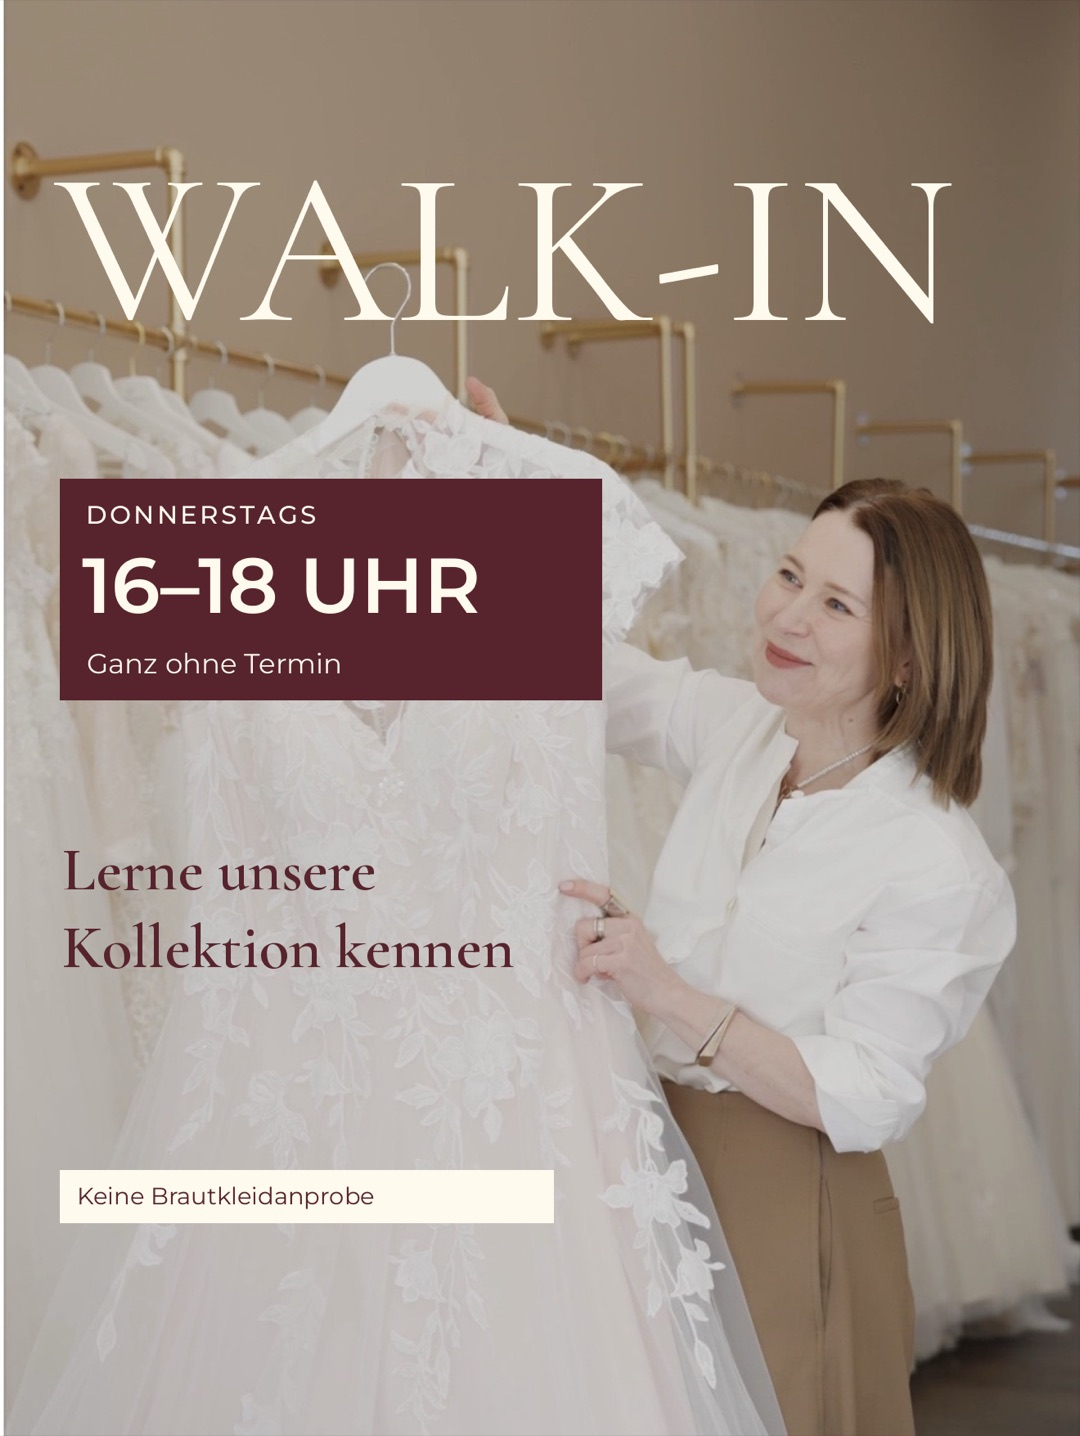
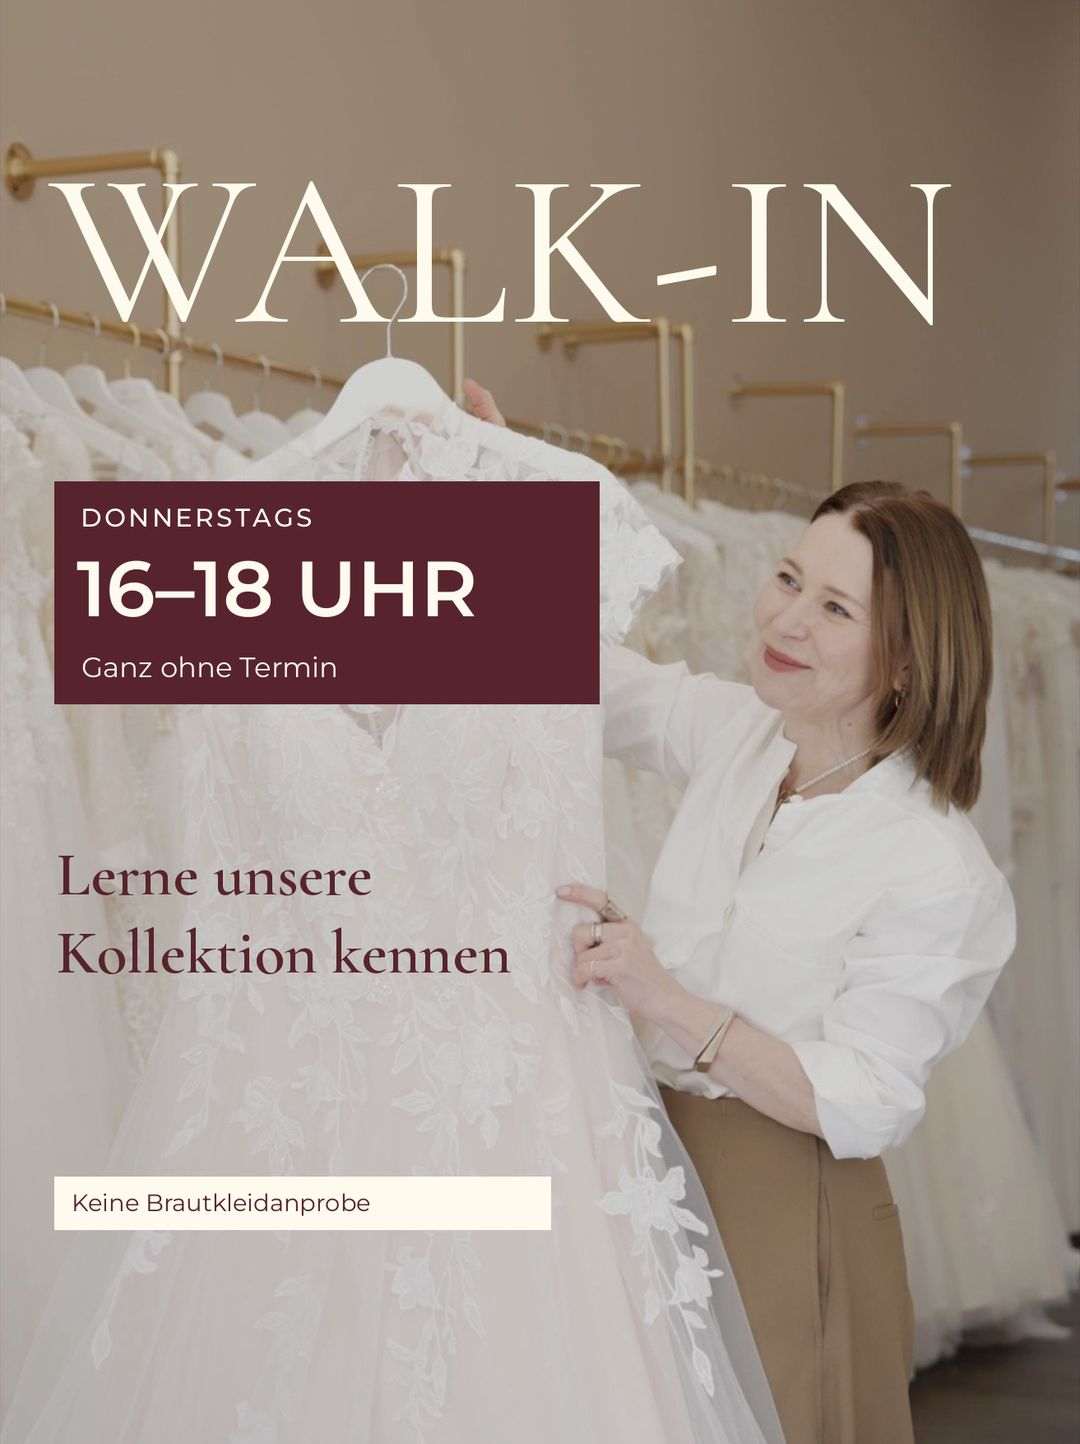
Walk-in Popup: weissen Rand links entfernt

diff --git a/sale-popup.js b/sale-popup.js
@@ -25,7 +25,7 @@ document.addEventListener('DOMContentLoaded', function() {
 			background: none;
 			border-radius: 0;
 			width: auto;
-			max-width: min(90vw, calc(90vh * 1080 / 1436));
+			max-width: min(90vw, calc(90vh * 1080 / 1444));
 			max-height: 90vh;
 			overflow: hidden;
 			opacity: 0;
@@ -35,7 +35,7 @@ document.addEventListener('DOMContentLoaded', function() {
 			margin: 0;
 			line-height: 0;
 		">
-			<img src="site/assets/walk-in-donnerstag.jpg?v=20261105" alt="Walk-in jeden Donnerstag von 16 bis 18 Uhr – ganz ohne Termin. Lerne unsere Kollektion kennen, keine Brautkleidanprobe." style="width: 100%; height: auto; display: block; border-radius: 0; margin: 0; padding: 0;">
+			<img src="site/assets/walk-in-donnerstag.jpg?v=20261105b" alt="Walk-in jeden Donnerstag von 16 bis 18 Uhr – ganz ohne Termin. Lerne unsere Kollektion kennen, keine Brautkleidanprobe." style="width: 100%; height: auto; display: block; border-radius: 0; margin: 0; padding: 0;">
 		</div>
 		
 		<button id="sale-popup-close" style="

diff --git a/index.html b/index.html
@@ -73,7 +73,7 @@
 	<script src="fixed-cta.js?v=20260802" data-cta-delay="3600"></script>
 
 	<!-- Walk-in Popup -->
-	<script src="sale-popup.js?v=20261105"></script>
+	<script src="sale-popup.js?v=20261105b"></script>
 
 	<link rel="stylesheet" href="site/templates/scripts/fancybox-master/dist/jquery.fancybox.css?v=20260802" type="text/css" media="screen">
 
